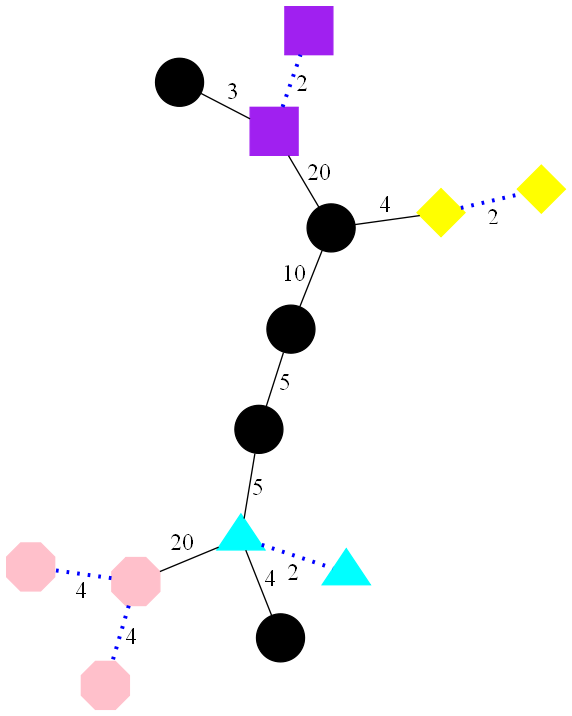
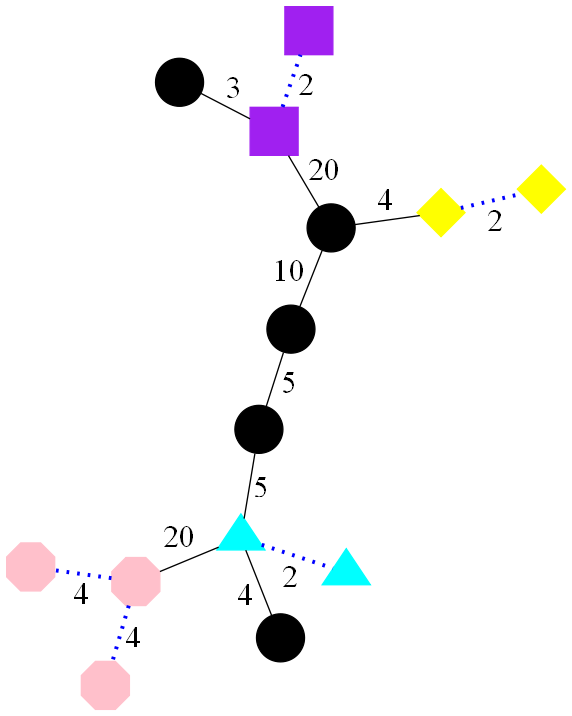
Tidy up Figures 6 and 7 and increase the font size.

diff --git a/waterfallpaper.tex b/waterfallpaper.tex
@@ -339,12 +339,12 @@ At the start of Marcotegui's method, the first input partition (produced from th
 %---
 \begin{stusubfig}{p}
 	\subfigure[]
-	{\includegraphics[width=.3\linewidth]{segmentation-waterfall-marcotegui-graphlocalminima.png}}%
+	{\includegraphics[width=.32\linewidth]{segmentation-waterfall-marcotegui-graphlocalminima.png}}%
 	%
 	\hspace{4mm}%
 	%
 	\subfigure[]
-	{\includegraphics[width=.3\linewidth]{segmentation-waterfall-marcotegui-localminimaelision.png}}%	
+	{\includegraphics[width=.32\linewidth]{segmentation-waterfall-marcotegui-localminimaelision.png}}%	
 \caption{Finding and contracting a graph's local minima for Marcotegui's method: (a) the graph from \cite{marcotegui05} and its local minima (drawn in red/dashed); (b) contracting/colouring the local minima (the edges to be contracted are drawn in blue/dotted).}
 \label{fig:segmentation-waterfall-marcotegui-localminima}
 \end{stusubfig}
@@ -379,7 +379,7 @@ At the start of Marcotegui's method, the first input partition (produced from th
 	%
 	\subfigure[Contract another 5 edge]
 	{\includegraphics[width=.3\linewidth]{segmentation-waterfall-marcotegui-propagation-f.png}}%
-\caption{The propagation step of Marcotegui's method, illustrated on the graph in \cite{marcotegui05}: blue edges have already been contracted, green edges are under consideration, and red edges will not be contracted.}
+\caption{The propagation step of Marcotegui's method, illustrated on the graph in \cite{marcotegui05}: blue/dotted edges have already been contracted, green/dashed edges are under consideration, and red edges will not be contracted.}
 \label{fig:segmentation-waterfall-marcotegui-propagation}
 \end{stusubfig}
 %---
